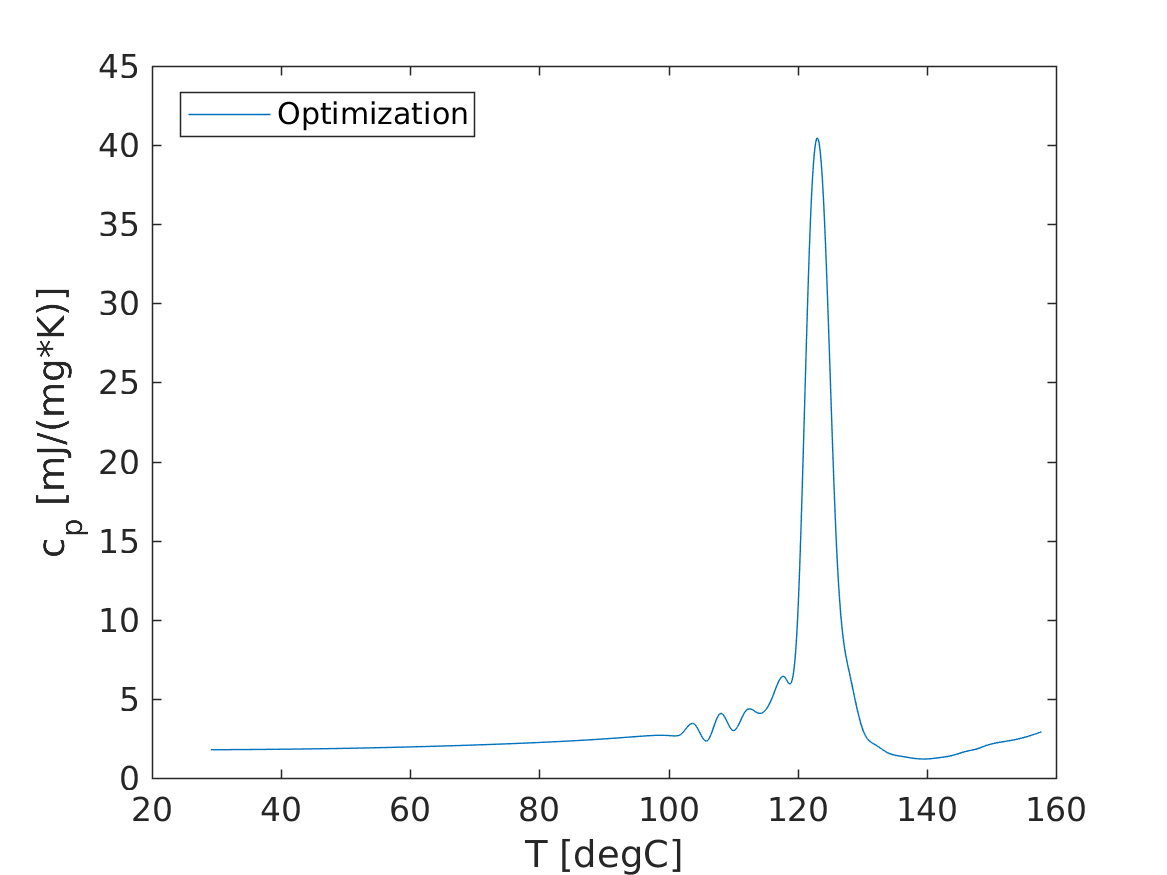
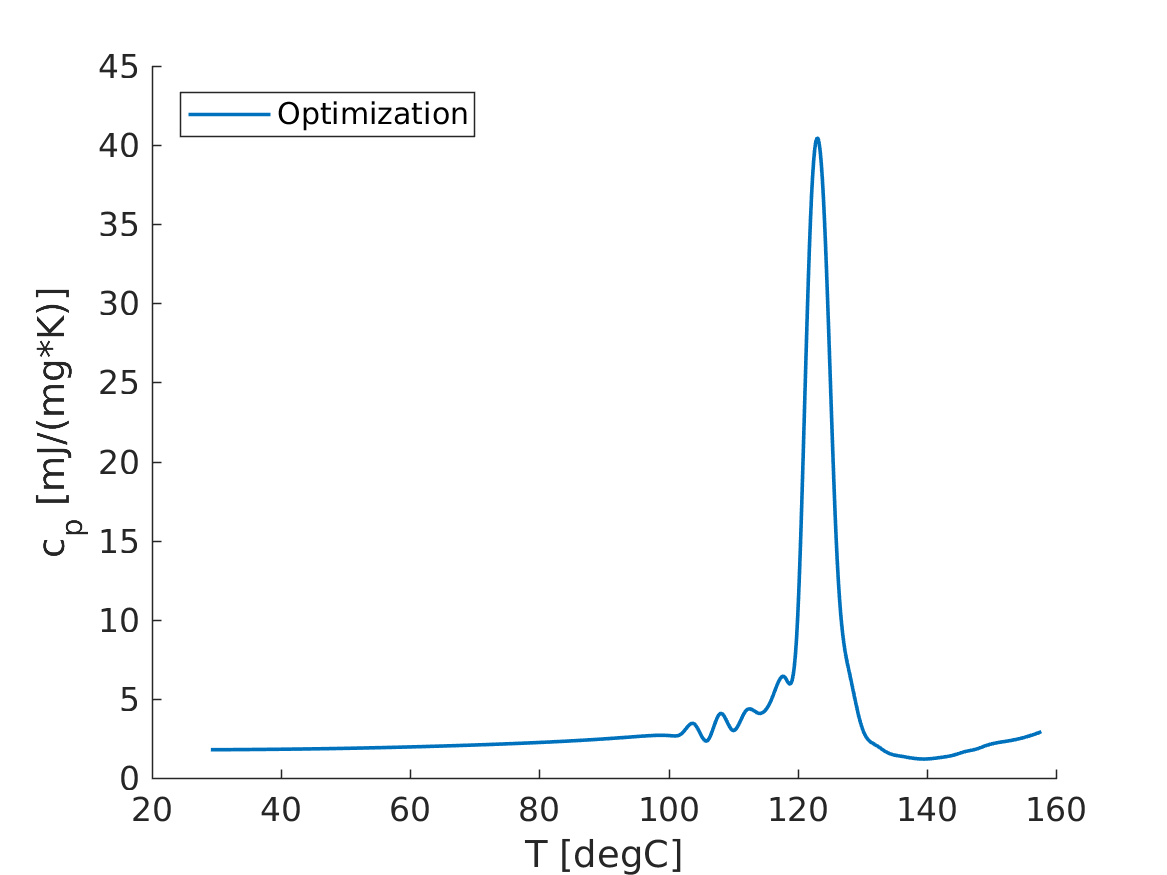
continued NURBS experiment part in thesis

diff --git a/thesis/thesis.tex b/thesis/thesis.tex
@@ -1543,6 +1543,7 @@ where $h$, $r$, $sr$, $wr$ and $z$ are the parameters of Fraser-Suzuki. Furtherm
 	\label{fig:parametrization_example_fraser_suzuki}
 \end{figure}
 
+\todo{FS Peak von theorie fuer zumindest Kristallfestkoerper vorhergesagt, problem ist das wir hier ein Polymer haben, das komplizierter ist.}
 
 
 \subsubsection{Linear combination of Gaussian functions}
@@ -1729,26 +1730,23 @@ For the first attempt of estimating $c_p(T)$  we used the NURBS parametrization 
 such that the peak has enough degrees of freedom for temperatures $T \in [100, 150]$. \\
 Due to the early working state we used the matlab routines $ode15s$ for integration and $lsqnonlin$ to solve the least squares problem where the Jacobian was computed via external numerical differentiation. The integration tolerance was set here to $10^{-7}$ as well. Besides that material properties of Constantan were used instead of silver for the heat transport plate from furnace to PCM. In particular these are $c_{p,Const}=0.41\frac{mJ}{mg \ K}$, $\rho_{Const}=10.49\frac{mg}{mm^3}$ and $\lambda_{Const}=23\frac{mW}{mm \ K}$. \\
 Minimizing the heat flux residuum worked best in this setting for $L_{Const}=15mm$ (instead of $L_{Ag}$ here) and $L_{pcm}=0.5mm$. \\
-The results after optimizing are shown in Fig. \ref{fig:NURBS_results}.
+The results after optimizing, using the measurement data of heat rate $\beta = 10 \frac{K}{min}$, are shown in Fig. \ref{fig:NURBS_results}. As one can see it was possible to minimize the residuum of heat flux quite well aside from some oscillations which have their origin in $c_p(T)$ due to numerical problems. Beside the oscillations there is one major difference in the peak shape from what we would expect, that is after the peak a temporary decrease followed by a big slope.
+Finally $lsqnonlin$ gives us the approximation of the used Jacobian $J_1(p_{c_p})$ at the end of the optimization process which was computed internally via finite differences, see Fig. \ref{fig:NURBS_results}c. Since in our NURBS parametrization the y-coordinates of the control points are free optimization variables and the locality of those the x-axis of these Jacobian plots was set being the x-coordinates of the control points. This way there is a direct connection between $J_1(p_{c_p})$ and which zone of $c_p(T)$ it affects. The y-axis was labeled using the reference crucible temperature since the heat flux measurement values are given as a function of those, analog to the heat flux plot.
+Two things are worth mentioning. First the order of magnitude which is increased by several orders for areas of $c_p(T)$ up to temperatures of $100^\circ C$ and measurement values above $110^\circ C$ reference temperature during phase transition.
 
 
-
+\todo{Optimierungsdauer}
 \begin{figure}[H]
 	\subcaptionbox{Heat flux into PCM $\varPhi_q^{pcm,in}$ measurement values (dashed red), simulation (blue) and corresponding residuum (yellow).}[.49\linewidth]
 	{\includegraphics[width=0.49\textwidth]{/home/argo/masterarbeit/thesis/images/NURBS_heat_flux.png}}
-	\label{fig:NURBS_heat_flux}
 	\subcaptionbox{Specific heat capacity $c_p(T)$ obtained by parameter estimation.}[.49\linewidth]
 	{\includegraphics[width=0.49\textwidth]{/home/argo/masterarbeit/thesis/images/NURBS_c_p(T).png}}
-	\label{fig:NURBS_c_p}
 
-	
-	\subcaptionbox{Optimization Jacobian $J_1(p_{c_p})$.}[.49\linewidth]
+	\subcaptionbox{Approximated Jacobian $J_1(p_{c_p})$.}[.49\linewidth]
 	{\includegraphics[width=0.49\textwidth]{/home/argo/masterarbeit/thesis/images/NURBS_jac.png}}
-	\label{fig:NURBS_jac}
 	\hspace{0.5cm}
-	\subcaptionbox{Zoomed in view of Optimization Jacobian $J_1(p_{c_p})$.}[.49\linewidth]
+	\subcaptionbox{Zoomed in view of approximated $J_1(p_{c_p})$.}[.49\linewidth]
 	{\includegraphics[width=0.49\textwidth]{/home/argo/masterarbeit/thesis/images/NURBS_jac_zoom.png}}
-	\label{fig:NURBS_jac_zoom}
 	\caption{Specific heat capacity, heat flux and optimization Jacobian at the end of the optimization process.}
 	\label{fig:NURBS_results}
 \end{figure}

diff --git a/code/testing2.m b/code/testing2.m
@@ -485,18 +485,21 @@ close();
 
 %% Plot old NURBS results in a pretty way
 
+root_dir = '/home/argo/masterarbeit/fits_data/2017-11-19_20:25:11_407_10Kmin_lsqnonlin/'
+fit_data = load([root_dir, 'fit_data.mat']);
+
+
 % Jacobian
-% fit_data = load('fit_data.mat');
-% 
-% fig = open('jac_output.fig');
-% set(gca,'FontSize',12);
-% 
+
+fig = open('jac_output.fig');
+set(gca,'FontSize',12);
+
 % print(fig, '/home/argo/masterarbeit/thesis/images/NURBS_jac', '-dpng', '-r200');
-% 
-% % Zoom in interesting part
+
+% Zoom in interesting part
 % xlim([0, 30])
 % ylim([124, 132])
-% 
+
 % print(fig, '/home/argo/masterarbeit/thesis/images/NURBS_jac_zoom', '-dpng', '-r200');
 % close();
 
@@ -508,30 +511,32 @@ close();
 % 
 % children = get(gca,'Children');
 % delete(children(1)) % delete c_p calc from formula
+% children(2).LineWidth = 1.3;
 % 
 % ylabel('c_p [mJ/(mg*K)]')
+% box off  % entfernt den Rahmen um die figure
 % 
 % print(fig, '/home/argo/masterarbeit/thesis/images/NURBS_c_p(T)', '-dpng', '-r200');
-
+% close;
 
 % heat flux
-fig = open('q_pcm_in(T_ref).fig');
-
-children = get(gca, 'Children');
-children(1).LineWidth = 1.;
-children(2).LineWidth = 1.;
-children(3).LineWidth = 1.;
-children(2).LineStyle = '--';
-
-set(gca,'FontSize',12);
-
-ylabel('\Phi_q^{PCM,in} [mW]')
-
-legend('off')
-legend('show', 'location', 'northwest');
-
-print(fig, '/home/argo/masterarbeit/thesis/images/NURBS_heat_flux', '-dpng', '-r200');
-close;
+% fig = open('q_pcm_in(T_ref).fig');
+% 
+% children = get(gca, 'Children');
+% children(1).LineWidth = 1.3;
+% children(2).LineWidth = 1.3;
+% children(3).LineWidth = 1.3;
+% children(2).LineStyle = '--';
+% 
+% set(gca,'FontSize',12);
+% 
+% ylabel('\Phi_q^{PCM,in} [mW]')
+% 
+% legend('off')
+% legend('show', 'location', 'northwest');
+% 
+% print(fig, '/home/argo/masterarbeit/thesis/images/NURBS_heat_flux', '-dpng', '-r200');
+% close;
 
 
 %% Plot smearing effect in simulation in a pretty way
